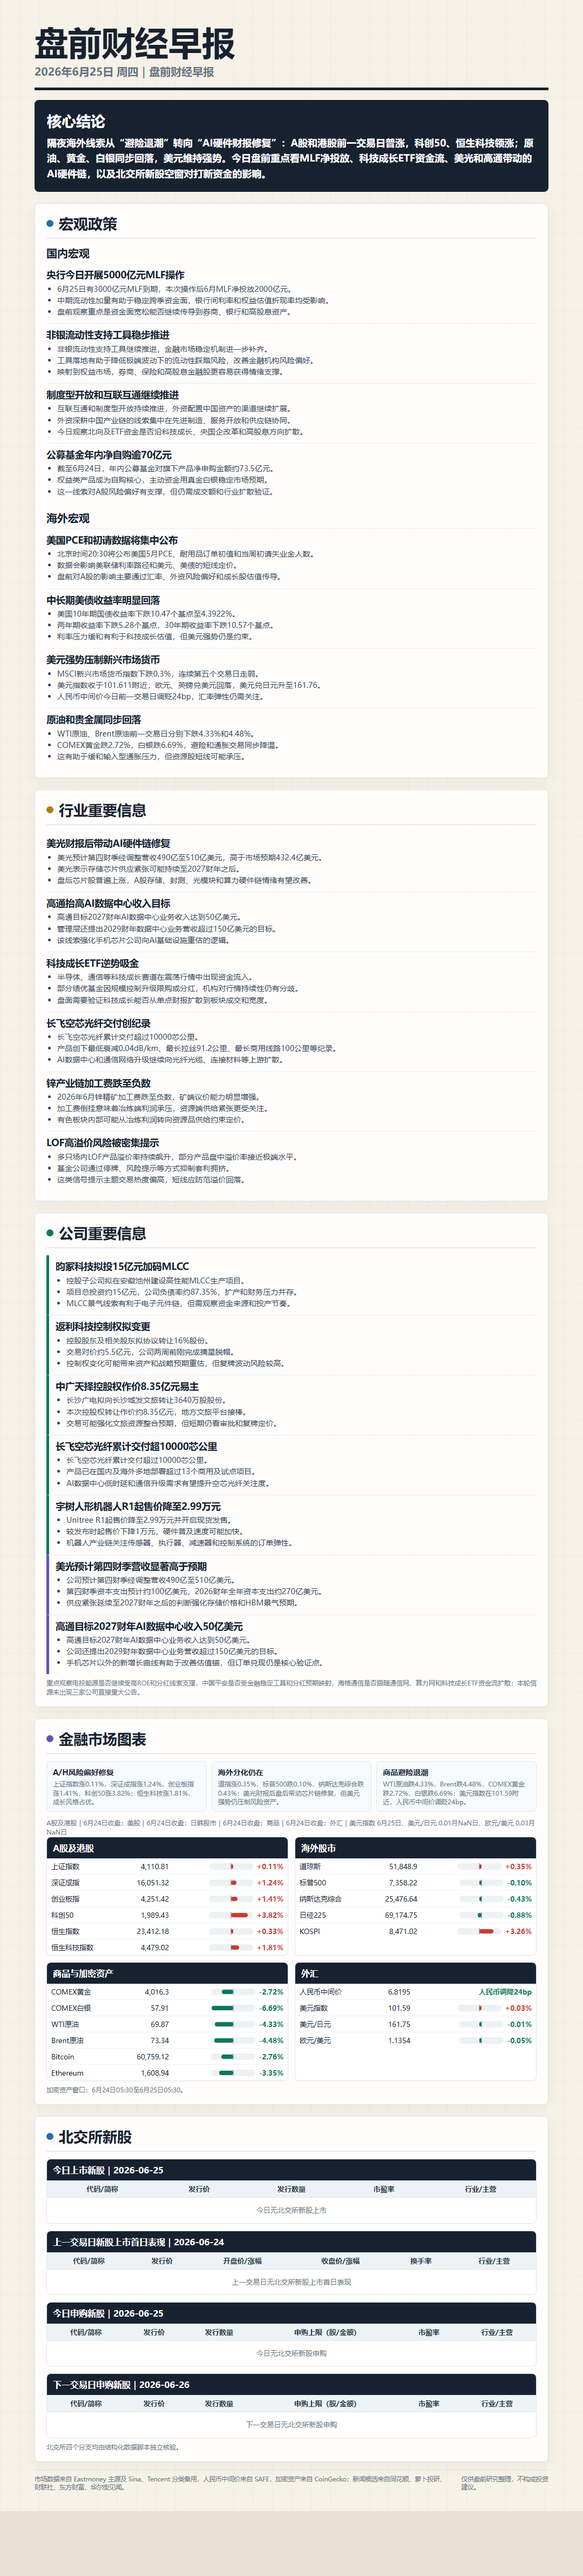
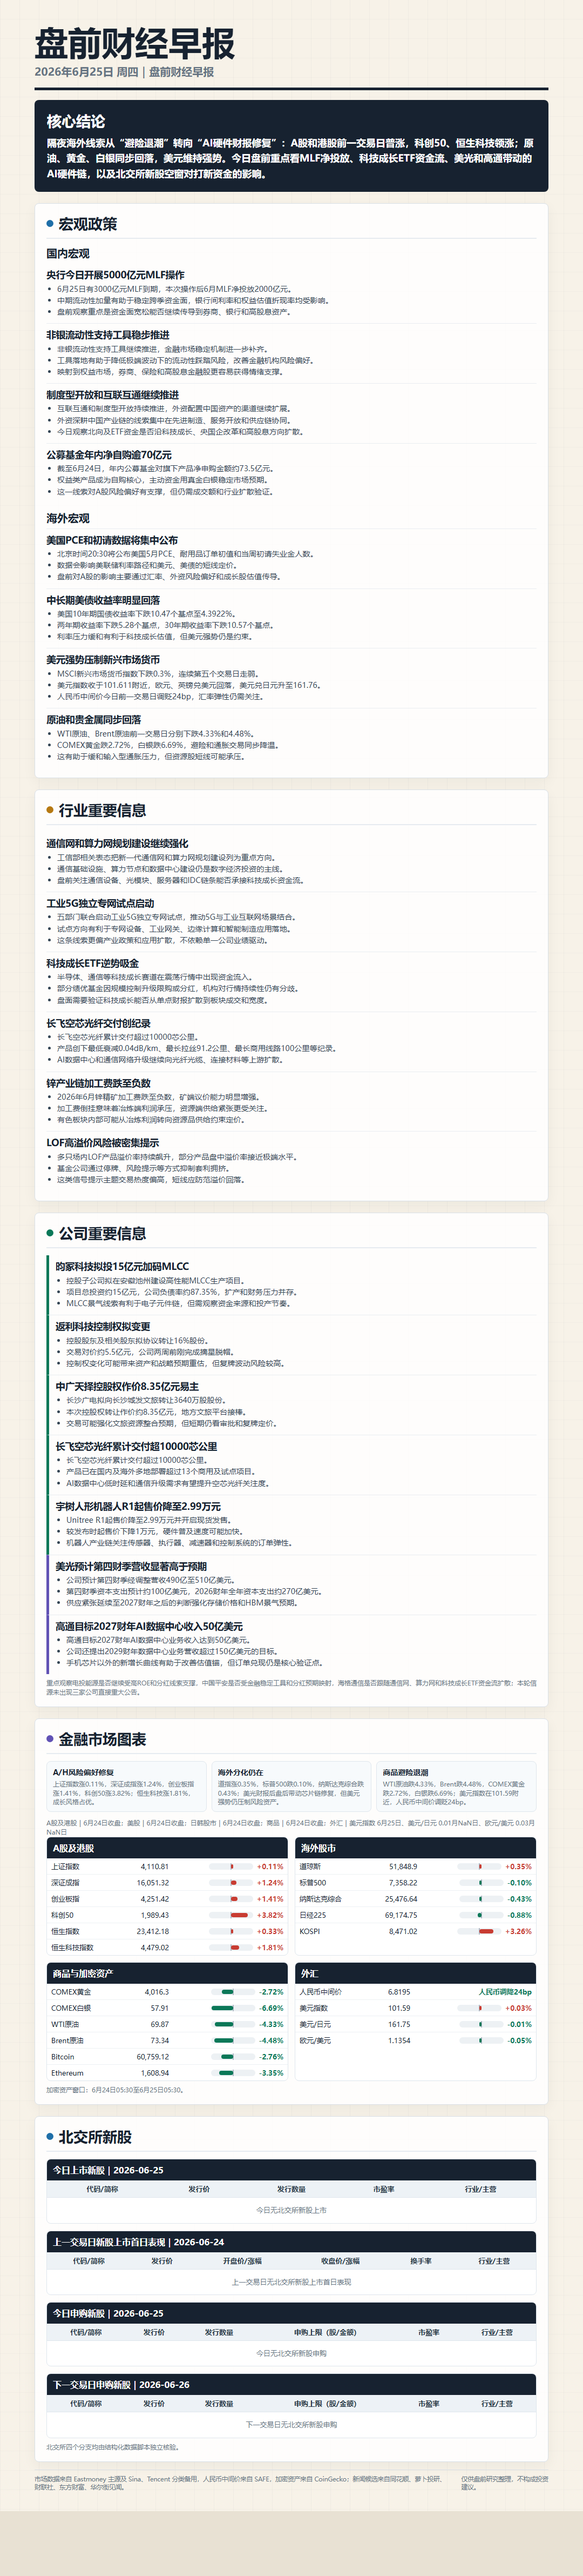
Correct 2026-06-25 morning brief

Changed region(s): [[0.0917, 0.3105, 0.4889, 0.3726]]

diff --git a/2026-06-25/report.html b/2026-06-25/report.html
@@ -59,12 +59,12 @@
     </article></section>
   <section class="section"><h2 class="section-title"><span class="dot" style="background:var(--gold)"></span>行业重要信息</h2>
     <article class="item ">
-      <h4>美光财报后带动AI硬件链修复</h4>
-      <ul><li>美光预计第四财季经调整营收490亿至510亿美元，高于市场预期432.4亿美元。</li><li>美光表示存储芯片供应紧张可能持续至2027财年之后。</li><li>盘后芯片股普遍上涨，A股存储、封测、光模块和算力硬件链情绪有望改善。</li></ul>
+      <h4>通信网和算力网规划建设继续强化</h4>
+      <ul><li>工信部相关表态把新一代通信网和算力网规划建设列为重点方向。</li><li>通信基础设施、算力节点和数据中心建设仍是数字经济投资的主线。</li><li>盘前关注通信设备、光模块、服务器和IDC链条能否承接科技成长资金流。</li></ul>
     </article>
     <article class="item ">
-      <h4>高通抬高AI数据中心收入目标</h4>
-      <ul><li>高通目标2027财年AI数据中心业务收入达到50亿美元。</li><li>管理层还提出2029财年数据中心业务营收超过150亿美元的目标。</li><li>该线索强化手机芯片公司向AI基础设施重估的逻辑。</li></ul>
+      <h4>工业5G独立专网试点启动</h4>
+      <ul><li>五部门联合启动工业5G独立专网试点，推动5G与工业互联网场景结合。</li><li>试点方向有利于专网设备、工业网关、边缘计算和智能制造应用落地。</li><li>这条线索更偏产业政策和应用扩散，不依赖单一公司业绩驱动。</li></ul>
     </article>
     <article class="item ">
       <h4>科技成长ETF逆势吸金</h4>
